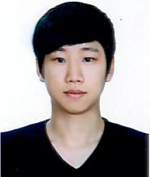
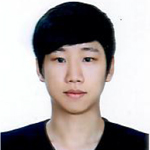
프로필사진 정사각형 반응형 적용

diff --git a/src/components/PlanetBColumn.jsx b/src/components/PlanetBColumn.jsx
@@ -9,7 +9,7 @@ const PlanetBColumn = () => {
   	  <Grid>
       	    <div style={{height:'50'}}></div>
   	    <Row className="show-grid">
-  	      <Col sm={6} md={3}>
+  	      <Col sm={6} md={4}>
             <div className="news-category-box">
               <img src="/src/images/news/coindesk.png"></img>
               <p>Interviewed Vitalik Buterin and translated his words with Coindesk Korea.</p>
@@ -21,42 +21,30 @@ const PlanetBColumn = () => {
                 </div>
               </div>
   	      </Col>
-  	      <Col sm={6} md={3}>
+  	      <Col sm={6} md={4}>
             <div className="news-category-box">
               <img src="/src/images/news/coindesk.png"></img>
-              <p>Interviewed Vitalik Buterin and translated his words with Coindesk Korea.</p>
+              <p>Published a series of articles about our research with Coindesk Korea.</p>
               <div id="container">
                 <div className="button-3">
                   <div className="eff-3"></div>
-                  <a href="https://www.coindeskkorea.com/%EB%B9%84%ED%83%88%EB%A6%AD-%EB%8B%A8%EB%8F%85-%EC%9D%B8%ED%84%B0%EB%B7%B0-3%EC%84%B8%EB%8C%80-%EB%B8%94%EB%A1%9D%EC%B2%B4%EC%9D%B8-%EC%9D%B4%EB%8D%94%EB%A6%AC%EC%9B%80-%EB%AC%B4%EC%8B%9C-%EB%A7%90/"> See details</a>
+                  <a href="#COLUMN"> To Be Published</a>
                   </div>
                 </div>
               </div>
   	      </Col>
-  	      <Col sm={6} md={3}>
+          <Col sm={6} md={4}>
             <div className="news-category-box">
-              <img src="/src/images/news/coindesk.png"></img>
-              <p>Interviewed Vitalik Buterin and translated his words with Coindesk Korea.</p>
+              <img src="/src/images/news/blockchain-news.png"></img>
+              <p>Introduced about Planet.B vision and activities by Kyung June Lee.</p>
               <div id="container">
                 <div className="button-3">
                   <div className="eff-3"></div>
-                  <a href="https://www.coindeskkorea.com/%EB%B9%84%ED%83%88%EB%A6%AD-%EB%8B%A8%EB%8F%85-%EC%9D%B8%ED%84%B0%EB%B7%B0-3%EC%84%B8%EB%8C%80-%EB%B8%94%EB%A1%9D%EC%B2%B4%EC%9D%B8-%EC%9D%B4%EB%8D%94%EB%A6%AC%EC%9B%80-%EB%AC%B4%EC%8B%9C-%EB%A7%90/"> See details</a>
+                  <a href="#COLUMN"> To Be Published</a>
                   </div>
                 </div>
               </div>
-  	      </Col>
-  	      <Col sm={6} md={3}>
-            <div className="news-category-box">
-              <img src="/src/images/news/coindesk.png"></img>
-              <p>Interviewed Vitalik Buterin and translated his words with Coindesk Korea.</p>
-              <div id="container">
-                <div className="button-3">
-                  <div className="eff-3"></div>
-                  <a href="https://www.coindeskkorea.com/%EB%B9%84%ED%83%88%EB%A6%AD-%EB%8B%A8%EB%8F%85-%EC%9D%B8%ED%84%B0%EB%B7%B0-3%EC%84%B8%EB%8C%80-%EB%B8%94%EB%A1%9D%EC%B2%B4%EC%9D%B8-%EC%9D%B4%EB%8D%94%EB%A6%AC%EC%9B%80-%EB%AC%B4%EC%8B%9C-%EB%A7%90/"> See details</a>
-                  </div>
-                </div>
-              </div>
-  	      </Col>
+          </Col>
   	    </Row>
   	  </Grid>
       </div>

diff --git a/src/components/PlanetBAbout.jsx b/src/components/PlanetBAbout.jsx
@@ -3,30 +3,32 @@ import { Grid, Row, Col, Clearfix, ListGroup, ListGroupItem } from 'react-bootst
 
 const PlanetBAbout = () => {
   return (
-    <div className="planetb-about">
-      <Grid>
-        <Row className="show-grid">
-          <Col sm={12} md={8}>
-          <h1 className="maintitle-no-padding">Blockchain at POSTECH</h1>
-            <div className="maintitle-no-padding-paragraph">Planet.B is a student-run organization at POSTECH dedicated to doing blockchain research with consensus algorithms, decentralized applications, token economics and blockchain network. We are working with industry leaders and academics to design and develop blockchain solutions that create intrinsic values of decentralization. </div>
-          </Col>
-          <Col sm={12} md={4}>
-          <p className="research-category-box research-glyphicon">
-            <span className="glyphicon glyphicon-check"> Consensus Algorithm</span>
-          </p>
-          <p className="research-category-box research-glyphicon">
-            <span className="glyphicon glyphicon-phone"> Decentralized Application</span>
-          </p>
-          <p className="research-category-box research-glyphicon">
-            <span className="glyphicon glyphicon-bitcoin"> Token Economics</span>
-          </p>
-          <p className="research-category-box research-glyphicon">
-            <span className="glyphicon glyphicon-link"> Blockchain Network</span>
-          </p>
-          </Col>
-        </Row>
-      </Grid>
-    </div>
+      <div className="planetb-about">
+        <div className="container-about">
+          <Grid>
+            <Row className="show-grid">
+              <Col sm={12} md={8}>
+              <h1 className="maintitle-no-padding">Blockchain at POSTECH</h1>
+                <div className="maintitle-no-padding-paragraph">Planet.B is a student-run organization at POSTECH dedicated to doing blockchain research with consensus algorithms, decentralized applications, token economics and blockchain network. We are working with industry leaders and academics to design and develop blockchain solutions that create intrinsic values of decentralization. </div>
+              </Col>
+              <Col sm={12} md={4}>
+              <p className="research-category-box research-glyphicon">
+                <span className="glyphicon glyphicon-check"> Consensus Algorithm</span>
+              </p>
+              <p className="research-category-box research-glyphicon">
+                <span className="glyphicon glyphicon-phone"> Decentralized Application</span>
+              </p>
+              <p className="research-category-box research-glyphicon">
+                <span className="glyphicon glyphicon-bitcoin"> Token Economics</span>
+              </p>
+              <p className="research-category-box research-glyphicon">
+                <span className="glyphicon glyphicon-link"> Blockchain Network</span>
+              </p>
+              </Col>
+            </Row>
+          </Grid>
+        </div>
+      </div>
   );
 };
 

diff --git a/style/style.css b/style/style.css
@@ -221,8 +221,16 @@ Main Page
 .thumb {
   display: block;
   overflow: hidden;
-  width: 100%;
-  height: 300px;
+
+  &amp;:after { /* after로 반응형 정사각형 만들기 */
+  content: &quot;&quot;;
+  display: block;
+  padding-bottom: 100%;  }
+  .inner { /* 내부에 컨텐츠가 있을 때 추가 */
+    position: absolute;
+    width: 100%;
+    height: 100%;
+  }
 }
 
 .profile {
@@ -274,8 +282,7 @@ Main Page
 .planetb-about {
 }
 #ABOUT {
-  height: 400px !important;
-
+  max-height: 400px !important;
 }
 
 /* Research */
@@ -335,9 +342,8 @@ Main Page
 }
 .news-category-box img{
   width:15em;
-  max-height: 100%;
-  margin-top:1em;
-  margin-bottom:1em;
+  padding-top:1em;
+  padding-bottom:2em;
 }
 .news-category {
   margin-top: -40px !important;

diff --git a/src/components/MemberList.jsx b/src/components/MemberList.jsx
@@ -92,7 +92,17 @@ const MemberList = () => {
     {
       imageUrl: "/src/images/team/kcko.png",
       name: "Kyung Chan Ko",
-      description: "PhD Candidate @POSTECH, specialized in distributed computing"
+      description: "PhD Candidate @POSTECH CS, specialized in distributed computing"
+    },
+    {
+      imageUrl: "/src/images/team/dslee.png",
+      name: "Duk Sang Lee",
+      description: "PhD Candidate @POSTECH IME, Researcher of POSTECH blockchain center"
+    },
+    {
+      imageUrl: "/src/images/team/mjkim.png",
+      name: "Min Jae Kim",
+      description: "Undergrad @POSTECH CS, Cryptoeconomist"
     }
   ]
 

diff --git a/src/components/PlanetBResearch.jsx b/src/components/PlanetBResearch.jsx
@@ -18,7 +18,7 @@ const PlanetBResearch = () => {
 		</ListGroupItem>
 	      </a>
               <a href="https://docs.google.com/document/d/1dXCb8LuJyDGaV6-3tLKdddOpV_xW_7YnFPgScZ5kEfs/edit" target="_blank">
-        	<ListGroupItem header="Realistic DAO Design; Byeong Jun Kim, Byung Guk Jang, Hyo Jin Ju, Kyeong June Lee, et al.">
+        	<ListGroupItem header="Realistic DAO Design; Byeong Jun Kim, Byung Guk Jang, Hyo Jin Ju, Kyung June Lee, et al.">
 		  Designing a realistic, applicable DAO system for every organizations.
 		</ListGroupItem>
 	      </a>

diff --git a/src/components/Member.jsx b/src/components/Member.jsx
@@ -3,7 +3,7 @@ import { Grid, Row, Col} from 'react-bootstrap';
 
 const Member = ({imageUrl, name, description, linkedin}) => {
   return (
-    <div className="profile col-md-2">
+    <div className="profile col-xs-6 col-sm-3 col-md-2 col-lg-2">
       <div className="thumb">
           <img src={imageUrl} className="profile-img">
               <div className="profile-text">
